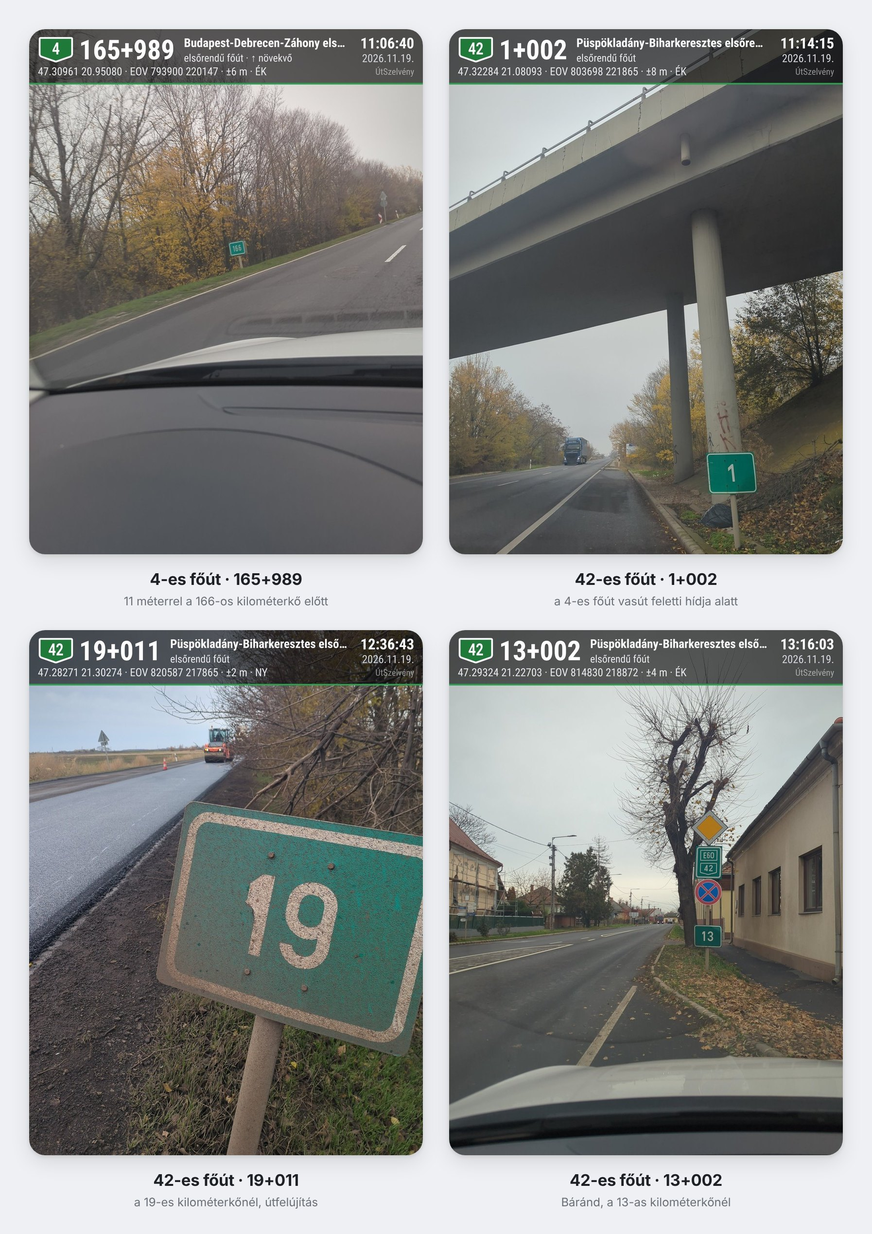
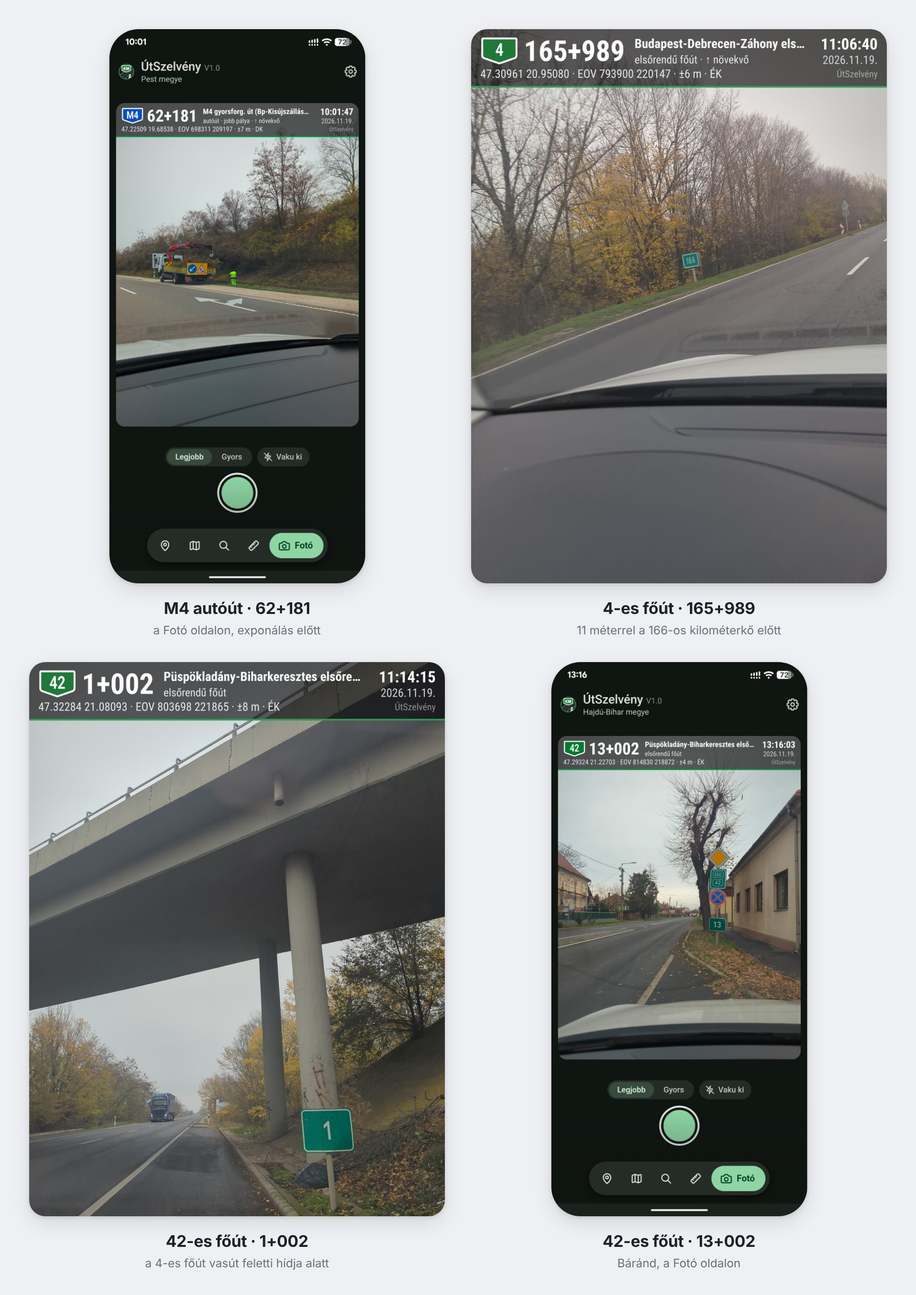
README: new Fotó picture (M4 photo added, two photos shown on the Fotó page)
Claude-Session: https://claude.ai/code/session_01CBoidU9uqfcnZhFnBtYf3G

diff --git a/README.md b/README.md
@@ -56,7 +56,7 @@ Az Android alkalmazásban a hangerőgombokkal (vagy Bluetooth-os távkioldóval)
 
 ![Fotó funkció – valódi fotók](screenshots/foto.jpg)
 
-<sub>Valódi, az alkalmazással készült fotók (Pixel 7 Pro, 2026. 11. 19.), a bélyegzővel együtt, ahogy az alkalmazás elmentette.</sub>
+<sub>Valódi, az alkalmazással készült fotók (Pixel 7 Pro, 2026. 11. 19.), a bélyegzővel együtt, ahogy az alkalmazás elmentette; kettő a Fotó oldal képernyőképébe illesztve, ahogy exponálás előtt látszik.</sub>
 
 ### HUD mód
 A műszerfalra fektetett telefon képe a szélvédőn tükröződik: fekete háttér, nagy, fényes útszám és szelvény,
